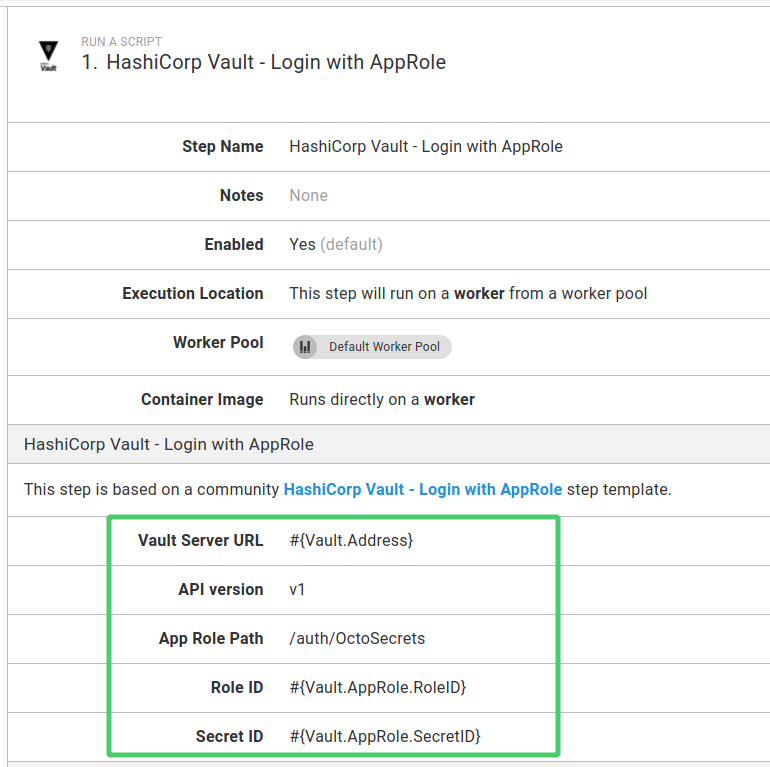
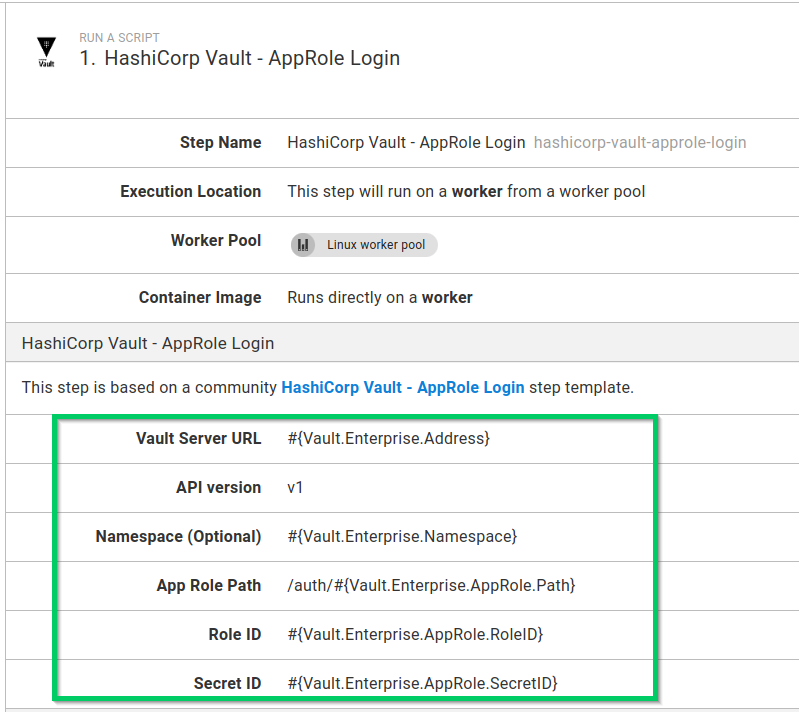
Update AppRole Login parameters and screenshots

diff --git a/blog/2021-05/using-hashicorp-vault-with-octopus-deploy/index.md b/blog/2021-05/using-hashicorp-vault-with-octopus-deploy/index.md
@@ -38,8 +38,8 @@ All of the step templates make use of the Vault [HTTP API](https://www.vaultproj
 
 Before interacting with Vault, you must authenticate against an auth method. Vault offers a number of different authentication options. The following step templates have been created to support Vault authentication:
 
-- [LDAP login](#ldap-login)
-- [AppRole login](#approle-login)
+- [LDAP Login](#ldap-login)
+- [AppRole Login](#approle-login)
 - [AppRole Get wrapped SecretID](#get-wrapped-secretid)
 - [AppRole Unwrap SecretID](#unwrap-secretid)
 - [AppRole Unwrap SecretID and Login](#unwrap-secretid-login)
@@ -95,7 +95,7 @@ In subsequent steps, the output variable `#{Octopus.Action[HashiCorp Vault - LDA
 
 ### AppRole login step {#approle-login}
 
-The [HashiCorp Vault - Login with AppRole](https://library.octopus.com/step-templates/e04a9cec-f04a-4da2-849b-1aed0fd408f0/actiontemplate-hashicorp-vault-approle-login) step template authenticates with a Vault Server using the [AppRole](https://www.vaultproject.io/docs/auth/approle) authentication method. This is perfect for use with Octopus. HashiCorp themselves recommend it for machines or apps:
+The [HashiCorp Vault - AppRole Login](https://library.octopus.com/step-templates/e04a9cec-f04a-4da2-849b-1aed0fd408f0/actiontemplate-hashicorp-vault-approle-login) step template authenticates with a Vault Server using the [AppRole](https://www.vaultproject.io/docs/auth/approle) authentication method. This is perfect for use with Octopus. HashiCorp themselves recommend it for machines or apps:
 
 > This auth method is oriented to automated workflows (machines and services), and is less useful for human operators.
 
@@ -125,6 +125,7 @@ The step template has the following parameters:
 
 - `Vault Server URL`: The URL of the Vault instance you are connecting to, including the port (The default is `8200`).
 - `API version`: Choose the API version to use from a drop-down list. Currently, there is only one option: `v1`.
+- `Namespace`: *Optional* The [namespace](https://www.vaultproject.io/docs/enterprise/namespaces) to use. Nested namespaces can be supplied, e.g., `ns1/ns2`. **Note:** Namespaces are only supported on [Vault Enterprise](https://www.hashicorp.com/products/vault).
 - `App Role Path`: The path where the [approle auth method is mounted](https://www.vaultproject.io/api-docs/auth/approle).
 - `Role ID`: The [RoleID](https://www.vaultproject.io/docs/auth/approle#roleid) of the AppRole.
 - `Secret ID`: The [SecretID](https://www.vaultproject.io/docs/auth/approle#secretid) of the AppRole.
@@ -133,7 +134,7 @@ The step template has the following parameters:
 
 #### Using the AppRole login step {#approle-login-use}
 
-The **AppRole login** step is added to deployment and runbook processes in the [same way as other steps](https://octopus.com/docs/projects/steps#adding-steps-to-your-deployment-processes).
+The **AppRole Login** step is added to deployment and runbook processes in the [same way as other steps](https://octopus.com/docs/projects/steps#adding-steps-to-your-deployment-processes).
 
 After you've added the step to your process, fill out the parameters in the step:
 
@@ -143,10 +144,10 @@ You can then execute the step in a runbook or deployment process. On successful 
 
 ![Vault AppRole login step task log](vault-approle-login-step-output-variable.png)
 
-In subsequent steps, the output variable `#{Octopus.Action[HashiCorp Vault - Login with AppRole].Output.AppRoleAuthToken}` can be used to authenticate and retrieve secrets.
+In subsequent steps, the output variable `#{Octopus.Action[HashiCorp Vault - AppRole Login].Output.AppRoleAuthToken}` can be used to authenticate and retrieve secrets.
 
 :::hint
-**Tip:** Remember to replace `HashiCorp Vault - Login with AppRole` with the name of your step for any output variable names.
+**Tip:** Remember to replace `HashiCorp Vault - AppRole Login` with the name of your step for any output variable names.
 :::
 
 ### AppRole best practices {#approle-best-practices}
